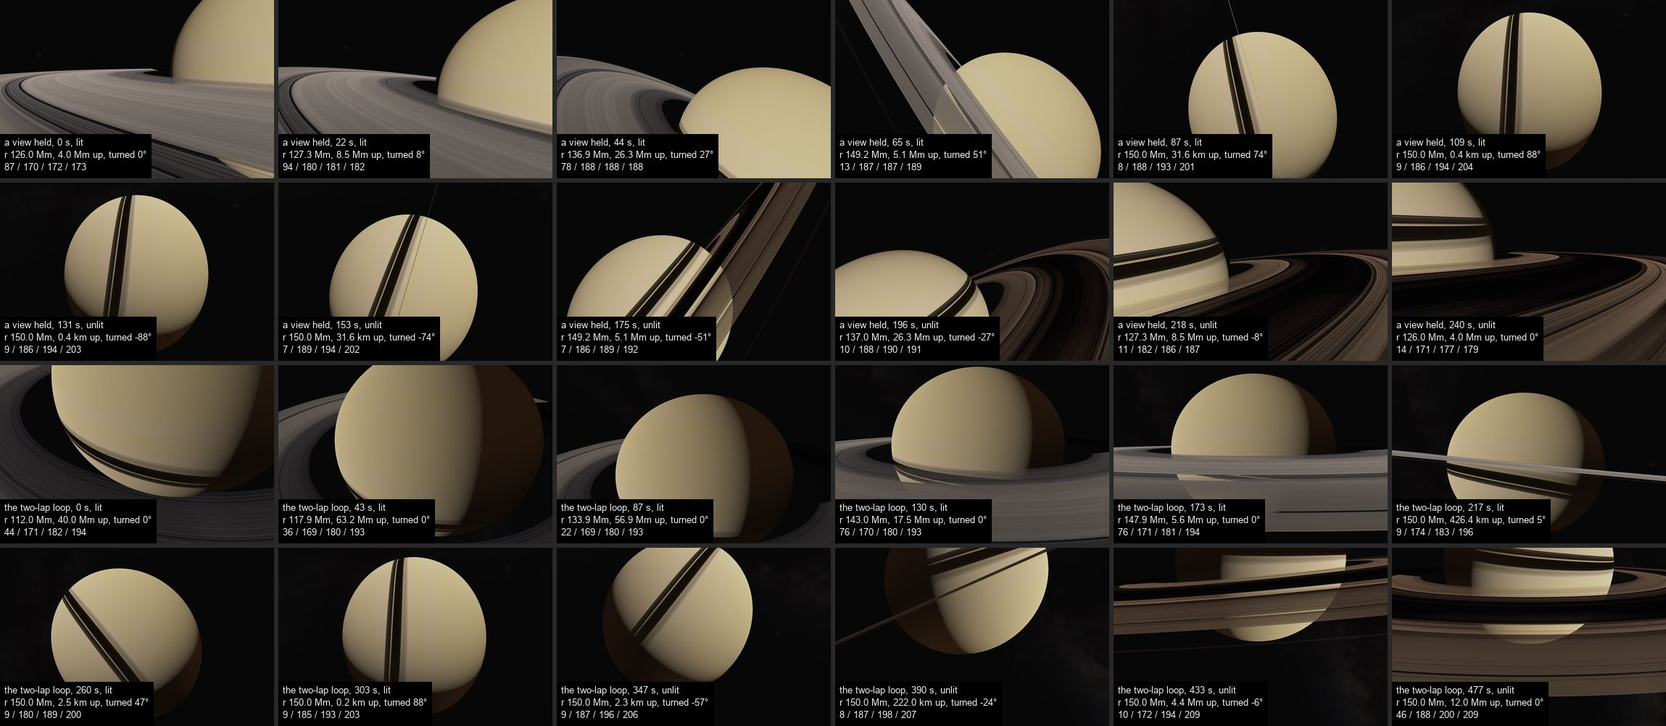
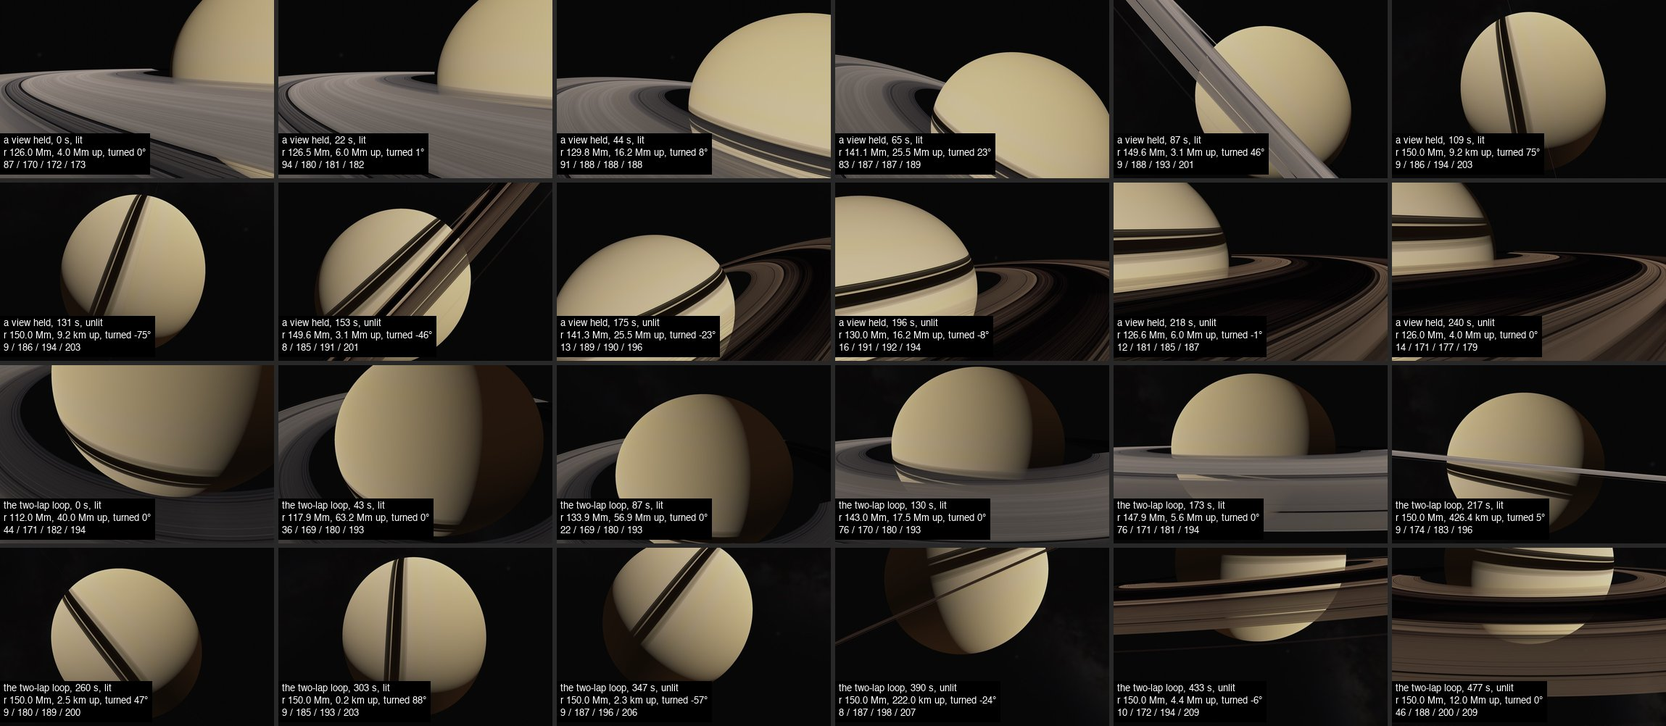
Saturn's Rings: cross the ring plane in one move, without stopping
Dave saw the camera stop at the crossing point. A crossing is now one 240 s move eased only at its two ends: the
camera's place and its turn run on through the plane, and only the yaw, field, Sun and exposures, which turn back
there, come to rest. A test fails if a crossing slows at the plane to under 0.3 of its move's mean pace.

diff --git a/Sources/Atrium/SaturnsRings.swift b/Sources/Atrium/SaturnsRings.swift
@@ -167,7 +167,10 @@ final class SaturnsRings: SKScene, BatteryPaced {
     /// 10.5 Mm along, it would otherwise skim the rings at 100 km/s. The yaw goes the short way round; the Sun goes
     /// round the side away from 180°, where the planet's shadow would lie on the camera and sweep across the rings
     /// under it in a second or two. The exposure goes by its logarithm too, in light, not in what the screen shows.
-    nonisolated static func between(_ a: Camera, _ b: Camera, _ e: Double) -> Camera {
+    /// The way it looks and the light (yaw, field, the Sun, the exposures and Daphnis) go by `turning`, and the turn
+    /// about the way it looks by `rolling`, where given, else by `e`: a crossing brings the first to rest at the
+    /// crossing point while the camera moves and turns on through it.
+    nonisolated static func between(_ a: Camera, _ b: Camera, _ e: Double, turning: Double? = nil, rolling: Double? = nil) -> Camera {
         let (low, rise) = (log(a.h), log(b.h / a.h)), over = climb(a, b) { sin(.pi * $0) }
         /// The mean height from the start to `x` of the way.
         func mean(to x: Double) -> Double {
@@ -176,13 +179,13 @@ final class SaturnsRings: SKScene, BatteryPaced {
                 return sum + exp(low + rise * at + over * sin(.pi * at))
             } / 32 * x
         }
-        let h = exp(low + rise * e + over * sin(.pi * e)), along = mean(to: e) / mean(to: 1)
-        func mix(_ x: Double, _ y: Double) -> Double { x + (y - x) * e }
-        return Camera(r: a.r + (b.r - a.r) * along, h: h, yaw: a.yaw + remainder(b.yaw - a.yaw, 360) * e, pitch: mix(a.pitch, b.pitch),
-                      field: mix(a.field, b.field), sun: 180 + mix(clear(a.sun), clear(b.sun)), exposure: a.exposure * pow(b.exposure / a.exposure, e),
-                      planet: a.planet * pow(b.planet / a.planet, e),
-                      ahead: a.moon > 0 && b.moon > 0 ? mix(a.ahead, b.ahead) : a.moon > 0 ? a.ahead : b.ahead, moon: mix(a.moon, b.moon),
-                      lit: a.lit, roll: mix(a.roll, b.roll))
+        let h = exp(low + rise * e + over * sin(.pi * e)), along = mean(to: e) / mean(to: 1), t = turning ?? e
+        func mix(_ x: Double, _ y: Double, _ e: Double) -> Double { x + (y - x) * e }
+        return Camera(r: a.r + (b.r - a.r) * along, h: h, yaw: a.yaw + remainder(b.yaw - a.yaw, 360) * t, pitch: mix(a.pitch, b.pitch, e),
+                      field: mix(a.field, b.field, t), sun: 180 + mix(clear(a.sun), clear(b.sun), t), exposure: a.exposure * pow(b.exposure / a.exposure, t),
+                      planet: a.planet * pow(b.planet / a.planet, t),
+                      ahead: a.moon > 0 && b.moon > 0 ? mix(a.ahead, b.ahead, t) : a.moon > 0 ? a.ahead : b.ahead, moon: mix(a.moon, b.moon, t),
+                      lit: a.lit, roll: mix(a.roll, b.roll, rolling ?? e))
     }
 
     /// How far a glide from `a` to `b` climbs, in the height's logarithm, at the top of a bump shaped `bump` (0 to 1
@@ -456,8 +459,8 @@ final class SaturnsRings: SKScene, BatteryPaced {
     private enum Phase { case hold, glide(from: Origin) }
     /// Where a glide sets out from: a view still drifting on, as a hold ends, or the one-face loop still flying on, so
     /// the camera doesn't stop dead before it moves off; or a camera standing where it was, partway through a glide,
-    /// on the two-lap loop (which might change faces under it) or at the crossing point.
-    private enum Origin { case drifting(Int), flying, still(Camera) }
+    /// on the two-lap loop (which might change faces under it); or the crossing point, passed on the way through it.
+    private enum Origin { case drifting(Int), flying, still(Camera), crossed }
     private var phase = Phase.hold, goal: Goal, after = Goal.loop, previous: Int?, since: Double, time = 0.0, lastUpdate: TimeInterval?
     /// The face the camera is on, or will be once it has crossed; whether it flies the two-lap loop that changes faces
     /// (Fly Through under Alternate); when it last changed faces, on the scene's clock; and, in Cycle under Alternate,
@@ -575,12 +578,24 @@ final class SaturnsRings: SKScene, BatteryPaced {
         case .drifting(let view): from = Self.held(Self.views[view], for: drift, lit: lit)
         case .flying: from = Self.flying(loop, lit: lit)
         case .still(let camera): from = camera
+        case .crossed: from = Self.crossing(lit: lit, leaving: true)
         }
         // onto a view as it begins to drift, or onto the loop as it flies on, so the camera arrives moving with it
         var to = there
         if case .view(let view) = goal { to = Self.held(Self.views[view], for: 0, lit: lit) }
         let u = min(max((time - since) / Self.glide, 0), 1)
-        return Self.between(from, to, u * u * (3 - 2 * u))
+        func eased(_ u: Double) -> Double { u * u * (3 - 2 * u) }
+        func steeper(_ u: Double) -> Double { u * u * u * (10 + u * (6 * u - 15)) }
+        // A crossing is one move of two glides' length, eased at its two ends, through the crossing point without
+        // stopping: the camera's place by one easing across the whole move, so it runs on through the plane at its
+        // fastest, and its turn by one that's steeper there (smootherstep), as it's the turn that moves the picture
+        // there; the way it looks and the light by each half's own, coming to rest at the crossing point, where they
+        // turn back (a view held goes out to Looking In's yaw, Sun and field and back to its own).
+        if goal == .crossing { return Self.between(from, to, 2 * eased(u / 2), turning: eased(u), rolling: 2 * steeper(u / 2)) }
+        if case .crossed = origin {
+            return Self.between(from, to, 2 * eased((1 + u) / 2) - 1, turning: eased(u), rolling: 2 * steeper((1 + u) / 2) - 1)
+        }
+        return Self.between(from, to, eased(u))
     }
 
     /// Where a glide starting now sets out from.
@@ -606,11 +621,10 @@ final class SaturnsRings: SKScene, BatteryPaced {
         while true {
             if case .glide = phase, time - since >= Self.glide {
                 if goal == .crossing {
-                    // ponytail: a crossing is two glides, eased at both ends, so the camera rests at the crossing point
-                    // a moment between them; one move through it (the loop's spline) if that's ever seen as a stop
+                    // through the crossing point, onto the other face, and on to what comes after
                     lit.toggle()
                     crossed = since + Self.glide
-                    (phase, goal, since) = (.glide(from: .still(Self.crossing(lit: lit, leaving: true))), after, since + Self.glide)
+                    (phase, goal, since) = (.glide(from: .crossed), after, since + Self.glide)
                 } else {
                     (phase, since) = (.hold, since + Self.glide)
                     drift = (time - since) * speed

diff --git a/Tests/AtriumTests/SaturnsRingsTests.swift b/Tests/AtriumTests/SaturnsRingsTests.swift
@@ -619,10 +619,28 @@ private func smooth(_ cameras: [SaturnsRings.Camera], _ what: String) {
     }
 }
 
+/// The camera never stops at the crossing point: at each change of faces, the fastest thing on screen moves at least
+/// `least` of its mean pace over the move round it, two glides' length (up to 0.130.15 a crossing was two glides, each
+/// eased to a stop there, so it moved 0). Prints the pace there, the mean, the slowest in the middle 80% of the move and
+/// the pace every 10 s, in device px a second at 1×.
+private func keepsMoving(_ cameras: [SaturnsRings.Camera], _ what: String, least: Double = 0.3) {
+    let half = Int(SaturnsRings.glide * 10)
+    for i in cameras.indices.dropFirst() where cameras[i - 1].lit != cameras[i].lit {
+        func pace(_ j: Int) -> Double { SaturnsRings.motion(cameras[j - 1], cameras[j], across: 24, up: 16) * 10 }
+        let move = Array(max(i - half, 1)..<min(i + half, cameras.count)), paces = move.map(pace)
+        let mean = paces.reduce(0, +) / Double(paces.count), there = pace(i)
+        let middle = paces[paces.count / 10..<paces.count * 9 / 10].min()!
+        print(String(format: "Saturn's Rings %@, through the plane at %.0f px/s: the move's mean %.0f, the slowest in its middle 80%% %.0f; every 10 s: %@",
+                     what, there, mean, middle, stride(from: 0, to: paces.count, by: 100).map { String(format: "%.0f", paces[$0]) }.joined(separator: " ")))
+        #expect(there >= least * mean, "\(what): through the plane at \(there) px/s, the move's mean \(mean)")
+    }
+}
+
 /// The faces in use: a view held under Alternate changes faces after half an hour, by the crossing point, and comes
 /// back to the same view; under Follow the camera changes faces when the appearance does, from a held view and from
-/// Fly Through; Cycle under Alternate changes faces every other glide; and Fly Through under Alternate changes them
-/// once a lap. In every case the camera keeps clear of the rings and never jumps.
+/// partway through a glide (going on to a view picked on its way to the plane); Cycle under Alternate changes faces
+/// every other glide; and Fly Through under Alternate changes them once a lap. In every case the camera keeps clear
+/// of the rings, never jumps, and never stops at the crossing point.
 @MainActor @Test func saturnsRingsChangeFaces() {
     let keys = [SaturnsRings.view.key, SaturnsRings.face.key, SaturnsRings.hold.key]
     defer { keys.forEach(UserDefaults.standard.removeObject); NSApplication.shared.appearance = nil }
@@ -634,6 +652,7 @@ private func smooth(_ cameras: [SaturnsRings.Camera], _ what: String) {
     var cameras = run(SaturnsRings(size: size, moment: 0), for: hold + 2 * SaturnsRings.glide + 10)
     keepsClear(cameras, "a held view")
     smooth(cameras, "a held view")
+    keepsMoving(cameras, "a held view")
     let back = SaturnsRings.held(SaturnsRings.views[2], for: 0, lit: false), last = cameras.last!
     #expect(cameras.first!.lit && !last.lit && abs(last.h - back.h) < 0.01 && abs(last.yaw - back.yaw) < 0.01 && abs(last.r - back.r) < 0.1,
             "back on its view, on the other face: r \(last.r), h \(last.h)")
@@ -648,7 +667,25 @@ private func smooth(_ cameras: [SaturnsRings.Camera], _ what: String) {
     cameras = run(scene, for: 2 * SaturnsRings.glide + 10, from: 20)
     keepsClear(cameras, "Follow")
     smooth(cameras, "Follow")
+    keepsMoving(cameras, "Follow")
     #expect(!cameras.last!.lit, "Follow went over to the unlit face in Dark Mode")
+
+    // Follow as Cycle glides, a view picked on the way to the plane: from where the camera is, on through the plane
+    // to that view
+    UserDefaults.standard.set(0.0, forKey: keys[0])
+    UserDefaults.standard.set(1.0, forKey: keys[2])
+    NSApplication.shared.appearance = NSAppearance(named: .aqua)
+    let gliding = SaturnsRings(size: size, moment: 0)
+    _ = run(gliding, for: 90)
+    NSApplication.shared.appearance = NSAppearance(named: .darkAqua)
+    cameras = run(gliding, for: 60, from: 90)
+    UserDefaults.standard.set(5.0, forKey: keys[0])
+    cameras += run(gliding, for: 2 * SaturnsRings.glide - 50, from: 150)
+    keepsClear(cameras, "Follow mid-glide")
+    smooth(cameras, "Follow mid-glide")
+    keepsMoving(cameras, "Follow mid-glide")
+    let encke = SaturnsRings.held(SaturnsRings.views[4], for: 0, lit: false)
+    #expect(!cameras.last!.lit && abs(cameras.last!.r - encke.r) < 0.1 && abs(cameras.last!.yaw - encke.yaw) < 0.01, "on to the view picked, on the unlit face")
 
     // Cycle under Alternate, a minute's hold: of four glides, two change faces
     UserDefaults.standard.set(0.0, forKey: keys[0])
@@ -657,6 +694,7 @@ private func smooth(_ cameras: [SaturnsRings.Camera], _ what: String) {
     cameras = run(SaturnsRings(size: size, moment: 0), for: 4 * 60 + 2 * SaturnsRings.glide + 2 * 2 * SaturnsRings.glide)
     keepsClear(cameras, "Cycle")
     smooth(cameras, "Cycle")
+    keepsMoving(cameras, "Cycle")
     #expect(zip(cameras, cameras.dropFirst()).count { $0.lit != $1.lit } == 2, "Cycle changed faces every other glide")
 
     // Fly Through under Alternate: once a lap
@@ -665,6 +703,7 @@ private func smooth(_ cameras: [SaturnsRings.Camera], _ what: String) {
     cameras = run(SaturnsRings(size: size, moment: 0), for: 2 * lap)
     keepsClear(cameras, "Fly Through")
     smooth(cameras, "Fly Through")
+    keepsMoving(cameras, "Fly Through")
     #expect(zip(cameras, cameras.dropFirst()).count { $0.lit != $1.lit } == 2, "Fly Through changed faces once a lap")
 }
 

diff --git a/docs/saturns-rings.md b/docs/saturns-rings.md
@@ -8,7 +8,7 @@ The idea is from the ideas page of 2026-11-14 ("Saturn's Rings · New wallpaper 
 - **Data:** Cassini UVIS stellar-occultation profiles of the rings' optical depth, and Voyager's lit-face brightness profile, from NASA's PDS Ring-Moon Systems Node. NASA's science data policy (SPD-41a) puts mission data in the public domain: **checked** ([the policy](https://science.nasa.gov/spd-41/)). The node's own pages state no licence, so the datasets are named and credited.
 - **Scripts:** `docs/saturns-rings/`: `profile.py` bakes the profile, `mock.swift` draws the mock-ups with SpriteKit's SKRenderer as the render test draws a wallpaper (meant to carry into the build), `variants.py` and `sheet.py` make the sheets.
 - **Pictures of it:** the mock-up sheets in `docs/saturns-rings/`, below.
-- **Where it stands (2026-11-20):** the build order's four steps are built, hidden behind the `unfinished` switch: the six views in the real light of the day, from the lit face (the standard since 0.130.13) or the unlit, each drifting slowly while it holds, the camera gliding from one to another at random, holding the one picked in Settings, or flying one smooth loop through all six at an even pace (Fly Through, 0.130.14), under the real stars and Milky Way. Since 0.130.15 the face can also change on its own, the camera flying through the ring plane out past the rings: Alternate, or lit in Light Mode and unlit in Dark Mode. Next, Dave's look at the crossings on his desktop; spokes are still his to decide.
+- **Where it stands (2026-11-20):** the build order's four steps are built, hidden behind the `unfinished` switch: the six views in the real light of the day, from the lit face (the standard since 0.130.13) or the unlit, each drifting slowly while it holds, the camera gliding from one to another at random, holding the one picked in Settings, or flying one smooth loop through all six at an even pace (Fly Through, 0.130.14), under the real stars and Milky Way. Since 0.130.15 the face can also change on its own, the camera flying through the ring plane out past the rings: Alternate, or lit in Light Mode and unlit in Dark Mode; since 0.130.16 in one move, without stopping at the plane. Next, Dave's look at the crossings on his desktop; spokes are still his to decide.
 
 ## Dave's decisions (2026-11-19)
 - **Every view, toggled or cycled.** Of round 1: "you dont need films, the images look great: all of the views you gave me are amazing, can we not toggle or cycle btween them?" So no single view: a View setting offers each of them, and a cycle moves between them. Round 1's films (the drift at 1× and 10×, Daphnis passing) were cancelled before any was made.
@@ -69,7 +69,8 @@ The plan, from the method research and Dave's choices. Where the build goes anot
   - **The turn.** The lit views are the unlit ones mirrored, so the plane is below on the screen from either face; level with the plane, the two faces' cameras look the same way but turned half round from each other about it. So a camera changing faces turns a quarter on the way to the crossing point (the hairline stands up the screen there) and a quarter on the way from it, and the picture carries on through the change unbroken: either side of the step, its place and its axes agree to a ten-millionth.
   - **The hairline fades.** Out past the rings the shader fades them over the camera's last 20 km to the plane: seen edge on they are a sheet a fraction of a pixel thick, and a band of whole pixels stood for it, which jumped from one side of the horizon to the other as the camera went through. At 200 m it's down to a hundredth.
   - **The exposures** (the rings' and the planet's, now each the camera's own) ease in light across the move; at the crossing point they're halfway between Looking In's from the two faces.
-  - **The ways it crosses:** a glide to the crossing point and one on from it, each `between`'s 120 s, eased at both ends, so the camera comes to rest at the crossing point a moment (a crossing move is 240 s); `between` moves the distance out in step with the height, so the camera is out past the rings while it's high and dives only beyond them. From a view held under Alternate every half hour, back to the same view; in Cycle under Alternate every other glide, on to the next view; under the appearance, or when Face is changed, from wherever the camera is, back to the view or the loop it was at or going to. Fly Through under Alternate flies a two-lap loop (`route(alternating:)`), lit then unlit, each lap ending out past the rings at Looking In's distance 2 Mm up (so the camera is beyond the rings before it comes down: without that knot it passed 100–150 km over the F ring's edge of the rings, which no grid of rays caught, and raced there) and then at the crossing point, as knots of the same spline at the same even pace; its turn counts on round the knots, a quarter at each crossing.
+  - **One move through the plane.** **As built (2026-11-20, 0.130.16):** at first (0.130.15) a crossing was two glides, to the crossing point and on from it, each eased at both ends, so the camera came to rest there; Dave saw the stop. Now it is one move of 240 s, two glides' length, eased at its two ends only, still drawn as `between`'s two halves either side of the crossing point, but with three easings across them: the camera's place (the distance out, the height and the pitch) by one smoothstep over the whole move, so it goes on through the plane at its fastest; its turn about the way it looks by a smootherstep over the whole move, steeper there, as near the plane the turn is what moves the picture; and the way it looks and the light (yaw, field, the Sun, the exposures, Daphnis) by each half's own smoothstep, coming to rest at the crossing point, since a view held goes out to Looking In's yaw, Sun and field and back to its own, and through the turn back their rates must pass 0. So the camera's speed has no break at the plane (`saturnsRingsChangeFaces`). The on-screen pace through it (`motion`, at 1×): about 44 px/s at the plane, 50 ten seconds either side and 56 twenty, from a held view, where 0.130.15's fell to 0; the dive to the plane and the climb from it stay the move's fastest, 248 px/s, as they were (259). Picking a view on the way to the plane changes where it goes after it; a pick after the plane, or the face asked for back, sets out from where the camera is, as a glide picked partway does. The loop's spline and its even pace were the other way: they would have slowed the dive and turned the picture at the plane about twice as fast, and moved the moment of the plane from move to move, so the halves were kept.
+  - **The ways it crosses:** one move of 240 s through the crossing point; `between` moves the distance out in step with the height, so the camera is out past the rings while it's high and dives only beyond them. From a view held under Alternate every half hour, back to the same view; in Cycle under Alternate every other glide, on to the next view; under the appearance, or when Face is changed, from wherever the camera is, back to the view or the loop it was at or going to. Fly Through under Alternate flies a two-lap loop (`route(alternating:)`), lit then unlit, each lap ending out past the rings at Looking In's distance 2 Mm up (so the camera is beyond the rings before it comes down: without that knot it passed 100–150 km over the F ring's edge of the rings, which no grid of rays caught, and raced there) and then at the crossing point, as knots of the same spline at the same even pace; its turn counts on round the knots, a quarter at each crossing.
   - **Follow** reads the appearance as the other light and dark wallpapers do (`systemIsDark`), each frame, and the wallpaper is marked `followsAppearance`, so the app no longer rebuilds it when the appearance changes: the camera crosses instead. Building the scene picks the side at once: Alternate starts lit (on the two-lap loop's lit lap), Follow as the appearance is.
 - **The light is today's:** the Sun's height over the ring plane from the date (Saturn's orbit is in `SkyMath`, its pole from the IAU), checked against JPL Horizons' 8.4° south for 2026-11-18. The unlit face is the one the Sun isn't on.
   - **As built (step (d)):** the Sun as seen from Saturn's centre by `SkyMath`'s orbit (JPL's approximate elements, `Sky.sun(from:)`), and the IAU's pole (Sources), give its height over the ring plane, read as the scene is built: it moves about 0.3° a month, and a scene is built at least every 3 days (the app's 12-hour rebuild when the displays sleep). It agrees with Horizons to 0.06° at nine dates from Cassini's 2009 equinox to 2039 (The build so far, (d)). Being fixed for a scene, it can't cross the plane mid-glide; it's kept 0.05° off the plane, more than the Sun's own radius there, as the shader divides by it. At the 2039 equinox the faces change sides, so the camera goes to the other side of the plane at the next build, the same views mirrored.
@@ -144,6 +145,11 @@ Each step a commit once it builds and the tests pass, with its snapshot looked a
   - **Tests:** every crossing glide, from each view on either face anywhere in its drift, and the two-lap loop, keep at least 180 m from the plane, at least 100 km over ring material (Daphnis Close is 120 km up), and change faces only at the crossing point (`saturnsRingsCrossingsStayClear`); and run frame by frame, a view held under Alternate crosses after half an hour and comes back to itself on the other face, Follow crosses when the appearance goes dark, Cycle under Alternate crosses on every other glide, and Fly Through under Alternate once a lap, each keeping those rules with no break in the camera's speed (`saturnsRingsChangeFaces`).
   - **Settings' page:** Face lists Lit, Unlit, Alternate, and lit in Light Mode, unlit in Dark Mode.
   - **Fly Through's one-face loop changed a little with it** (How it works): the limited slopes for three numbers only and the averaged pace make it 1,767 s at 1×, passing Looking In at 0 s, the horizon at 345, the Encke gap at 554, Daphnis Close at 815, the Planet's Edge at 1,386 and From Above at 1,615; its pace 20.9 to 33.6 px/s, at its fastest 894 s round, where a strip has 1 and 4 at 30 fps and 1 and 26 at 15; `build-flythrough.jpg` is drawn again, Daphnis in its gap at 12:16 and 14:43.
+- **(g) One move through the plane (2026-11-20, 0.130.16),** as Dave asked (How it works, Changing faces, has the design).
+  - **The pace** through a held view's crossing (Along the Planet's Edge, lit over to unlit and back, `motion` at 1×), every 10 s: 7, 28, 51, 70, 85, 91, 77, 116, 248, 113, 56, 50, **44** (the plane), 50, 56, 114, 249, 115, 77, 91, 84, 70, 51, 28 px/s. The move's mean is 83 and its slowest moment in the middle 80% is the plane, 0.53 of the mean, 12% under the pace ten seconds either side; 0.130.15's stopped there. Cycle's crossings pass the plane at 46 and 48 px/s, Follow's from partway through a glide at 47, the two-lap loop's at 26 and 27 of its 30.
+  - **Frame strip** through the held view's crossing (245 s): the second difference at 25 and 81 (99th, 99.9th) at 30 fps and 43 and 120 at 15, the frame's mean moving 0.15 and 0.28 levels at most (0.130.15: 23 and 83, 39 and 121, 0.17 and 0.33). The frames either side of the step through the plane differ by more than 2 levels in 181,803 values at 30 fps, and the two frames before it in 181,948 (284,406 and 285,001 at 15): the picture is turning, and the step adds nothing to that.
+  - **`build-crossing.jpg` drawn again:** the held view now passes the plane between its 109 s and 131 s moments, 9 km up and turned 75° each way; the planet is in every frame, every max at most 203.
+  - **Tests:** `saturnsRingsChangeFaces` fails if a crossing passes the plane at under 0.3 of its move's mean pace (`keepsMoving`; 0.130.15's passed at 0), and now also runs Follow from partway through a glide, with a view picked on the way to the plane.
 
 ## Settings
 - **View** (`saturn.view`, the first knob, a menu, in its own section): which view, Cycle or Fly Through. Stored as a number, for good once shipped: **0** Cycle (the standard), **1** Looking In, **2** Along to the Horizon, **3** Along the Planet's Edge, **4** From Above, **5** Over the Encke Gap, **6** Daphnis Close, **7** Fly Through (0.130.14; stored after the views so their numbers kept their meanings, listed second, after Cycle, by the knob's `order`).
@@ -221,7 +227,6 @@ A sheet 5 tile to compare with, drawn the same way (in `docs/saturns-rings/`, se
 The `ponytail:` comments in `SaturnsRings.swift`, each with where it stops being good enough:
 - **The rings' lift toward the equinox** is a law fitted by eye to the dates measured (1.6° and 0.1°), keeping the views of rings alone within about a fifth of today's 99th percentile, not the rings' real photometry: work it out from the slab's light if a date between looks too bright or too dark.
 - **A glide's climb is worked out again every frame,** about 1,600 exponentials, microseconds, and so is the loop's climb while flying: keep it for the glide or the stretch of loop if the CPU a frame ever shows it.
-- **A crossing pauses at the crossing point:** it's two glides, each eased at both ends, so the camera comes to rest there a moment between them; one move through it (the loop's spline from the view to the view) if the pause is ever seen as a stop.
 - **Fly Through's pace is even by steps:** the time is linear within each of its 720 steps, so its speed changes by a few percent from one to the next, every 2 or 3 seconds (the strip at its fastest shows none of it): a smooth curve through the table if a step is ever seen.
 - **The first copy builds on the main thread,** about 50 ms (the profile read, the pyramid's bake, the star grid and the glow), or about 150 ms while the HEIC decoder first starts: bake them off the main thread behind a still if a switch to the wallpaper is seen to stall. The profile is read on every build (10 ms), though the shader needs only its first radius, step and length: keep those beside the shared pyramid first.
 - **The profile is 8 km a sample.** View C's bottom edge covers about 6 km of radius a device pixel, near enough. The close views draw finer near the bottom, E about 1.6 km a pixel and F about 0.1 km, so their near fields are the profile smoothed, as in the tiles Dave picked: a 4 km profile (16,384 texels, Metal's widest) if they look soft.
@@ -230,6 +235,7 @@ The `ponytail:` comments in `SaturnsRings.swift`, each with where it stops being
 - **The planet's bands are drawn by latitude,** not mapped: a Cassini map of the globe if a view close to it shows them as too regular.
 
 ## Dave's feedback
+- **2026-11-20, on 0.130.15:** "make the crossing one continuous move, no pause". Built in 0.130.16: the crossing is one move through the plane, eased only at its two ends (How it works, Changing faces).
 - **2026-11-20, on 0.130.14:** "lets update the settings to allow auto cycle between light and dark side as well as locking the light or dark side to desktop theme". Built in 0.130.15: Face's Alternate and lit in Light Mode, unlit in Dark Mode, the camera crossing the ring plane out past the rings (How it works, Changing faces).
 - **2026-11-19, on 0.130.11:** "can we add an option in the ring settings to control how long we linger on a specific view (with 0 being an option), allowing the user a constant pan if they desire". Hold each view at 0 was built (Off: one glide straight into the next), but each glide eases in and out, so the camera would slow to a moment's stop at every view. Told so, he asked for the real thing instead: "add an option for a continuous flythrough based on one smooth path through all the views. build that as its own setting, also lit side looks nicer we should default to lit, also in the current pause and glide mode, add a 1 minute pause optoin, right now the lowest is 2 min". So Off was dropped before it shipped (Fly Through does it properly), and Hold each view goes down to 1 minute (0.130.12). The lit face became the standard in 0.130.13 and Fly Through came in 0.130.14 (The build so far).
 
